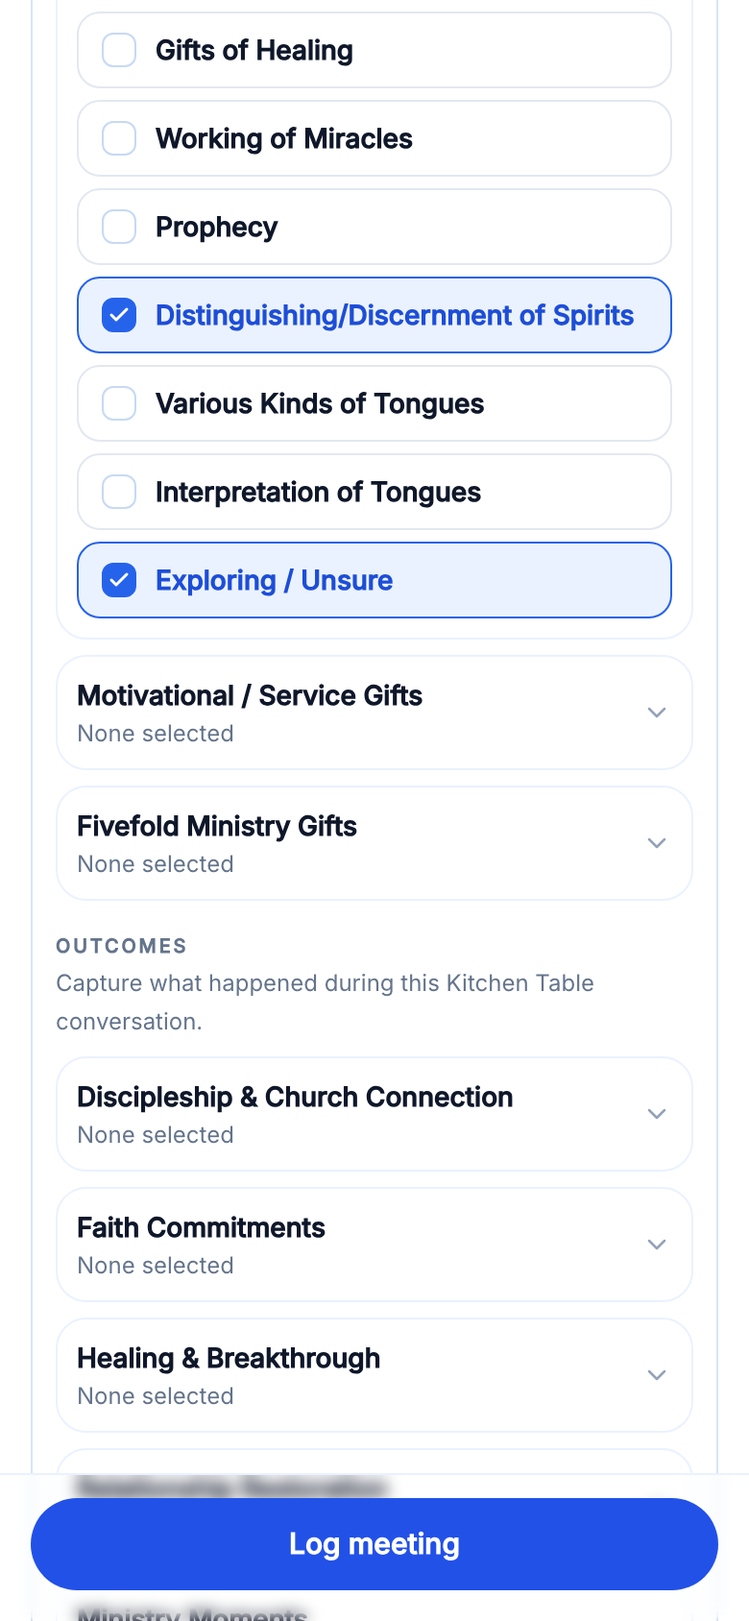
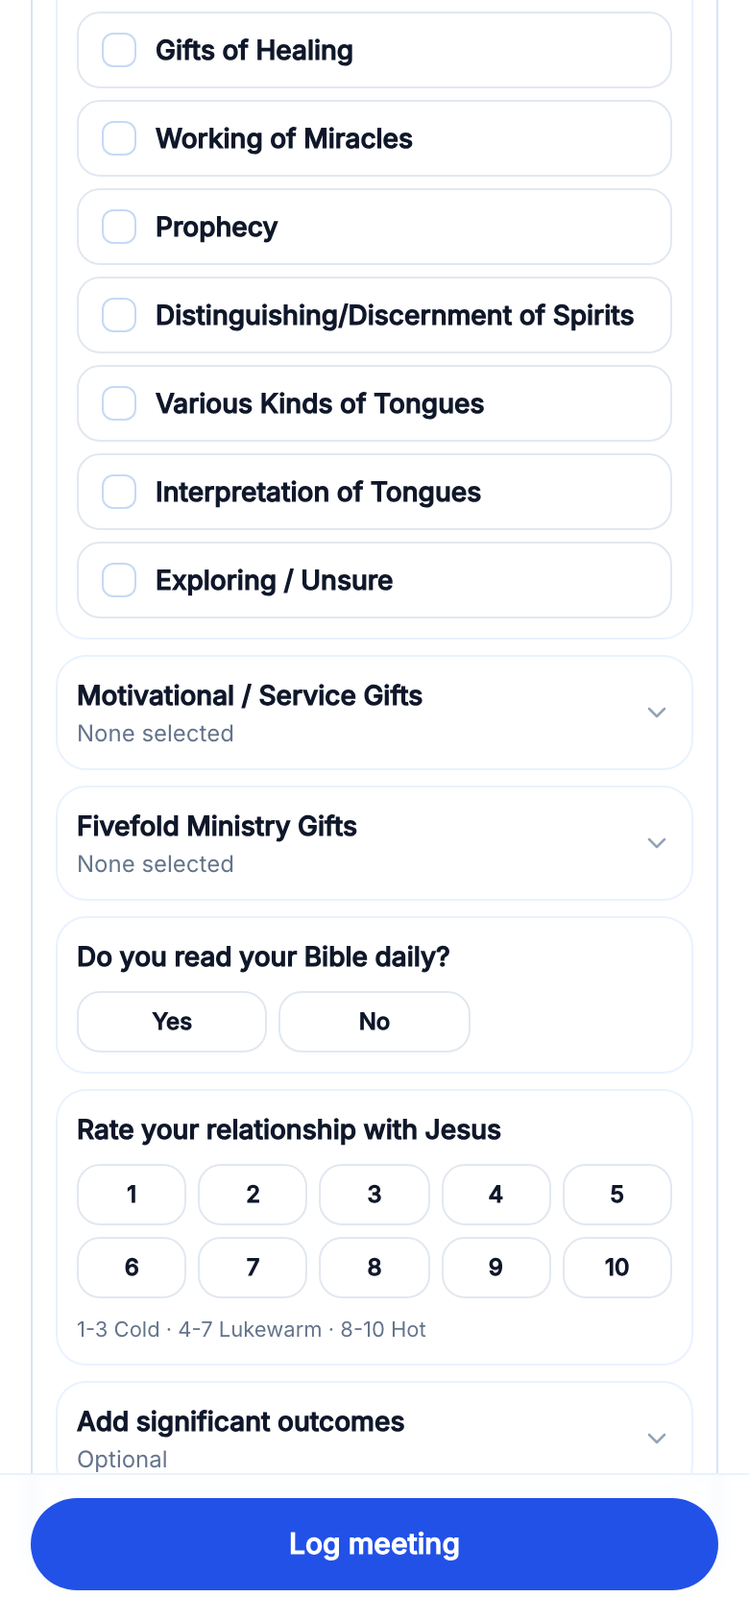
USA-238: second founder review — conversational question order, inline gift groups, one significant-outcomes row
- Kitchen Table questions now follow the conversation: believe, baptized,
  discipling, tithe, Sabbath, prayer/fasting, preach, church, spiritual gifts,
  (gift groups inline while Yes), Bible daily, relationship rating.
- The three collapsed gift groups are part of the question list directly
  under Spiritual Gifts and render only while it is Yes; hidden selections
  still clear when the answer changes.
- The five outcome groups are replaced for new capture by one optional
  collapsed row after the rating ("Add significant outcomes" / "Optional" or
  the count) opening a flat nine-item list. The old groups stay in the
  definition as historicalOnly: saved values still normalize through edits
  and render in meeting detail; the form and Library never offer them.
- Outcomes stay meeting responses; Observed Fruit is untouched and the
  regression proves no Fruit reference in the guide section or meetings API.
- Regressions: exact order, inline conditional gifts, consolidated picker,
  historical normalization/rendering, Fruit separation. Library resource
  baseline re-recorded (questions reordered; pickers no longer numbered).

diff --git a/src/lib/dos/meeting-engine.ts b/src/lib/dos/meeting-engine.ts
@@ -30,7 +30,14 @@ export type DosKitchenTableResponses = Partial<Record<Exclude<DosKitchenTableQue
 type DosKitchenTableNonRatingQuestionId = Exclude<DosKitchenTableQuestionId, "relationshipWithJesus">;
 
 export type DosConversationQuestion = {
+  /* Shown in meeting detail instead of `label` (e.g. for an "Add …" form title). */
+  detailLabel?: string;
+  /* Collapsed-row status when nothing is selected; defaults to "None selected". */
+  emptyLabel?: string;
   helper?: string;
+  /* Kept for saved records: still normalized and rendered in detail, never
+     offered in the form or the Library. */
+  historicalOnly?: boolean;
   id: string;
   kind: DosConversationQuestionKind;
   label: string;
@@ -55,6 +62,7 @@ export type DosConversationQuestion = {
 
 export type DosConversationSection = {
   description?: string;
+  historicalOnly?: boolean;
   id: string;
   questions: readonly DosConversationQuestion[];
   title: string;
@@ -94,17 +102,20 @@ export type DosRecommendedResource = {
   type: "flag" | "resource";
 };
 
+/* Conversational order of a Kitchen Table conversation (PCO reference,
+   founder review 2026-09-07). The gift groups are inserted directly after
+   "Do you have any spiritual gifts?" when the flow is assembled below. */
 export const dosKitchenTableQuestions = [
   { id: "believeJesus", kind: "yes_no", label: "Do you believe in Jesus?" },
   { id: "baptized", kind: "yes_no", label: "Have you been baptized?" },
-  { id: "bibleDaily", kind: "yes_no", label: "Do you read your Bible daily?" },
-  { id: "spiritualGifts", kind: "yes_no_unsure", label: "Do you have any spiritual gifts?" },
   { id: "disciplingAnyone", kind: "yes_no", label: "Are you discipling anyone?" },
-  { id: "attendChurchOften", kind: "yes_no", label: "Do you attend church often?" },
-  { id: "preachGoodNews", kind: "yes_no", label: "Do you preach the Good News?" },
   { id: "tithe", kind: "yes_no", label: "Do you tithe?" },
   { id: "honorSabbath", kind: "yes_no", label: "Do you honor the Sabbath?" },
   { id: "prayFastOften", kind: "yes_no_unsure", label: "Do you pray daily and fast often?" },
+  { id: "preachGoodNews", kind: "yes_no", label: "Do you preach the Good News?" },
+  { id: "attendChurchOften", kind: "yes_no", label: "Do you attend church often?" },
+  { id: "spiritualGifts", kind: "yes_no_unsure", label: "Do you have any spiritual gifts?" },
+  { id: "bibleDaily", kind: "yes_no", label: "Do you read your Bible daily?" },
   {
     id: "relationshipWithJesus",
     kind: "rating",
@@ -197,6 +208,63 @@ const ministryMomentOutcomeOptions = [
   { label: "Healing Prayer", value: "healing_prayer" },
 ] as const;
 
+/* Significant outcomes (founder review 2026-09-07): one flat optional list of
+   concrete results or next steps from this conversation. The five earlier
+   outcome groups above are historical-only — saved values keep normalizing
+   and rendering, the form no longer offers them, and granular activities
+   (communion, foot washing, prayer types) belong in Meeting Notes. Outcomes
+   are meeting responses only; they never touch the leader's separate
+   assessment records. */
+const significantOutcomeOptions = [
+  { label: "Decision for Christ", value: "decision_for_christ" },
+  { label: "Rededication", value: "rededication" },
+  { label: "Baptism next step", value: "baptism_next_step" },
+  { label: "Baptism in the Holy Spirit", value: "baptism_in_holy_spirit" },
+  { label: "Connected to a church or ministry", value: "connected_to_church_or_ministry" },
+  { label: "Discipleship next step", value: "discipleship_next_step" },
+  { label: "Healing or breakthrough", value: "healing_or_breakthrough" },
+  { label: "Relationship restored", value: "relationship_restored" },
+  { label: "Other significant outcome", value: "other_significant_outcome" },
+] as const;
+
+const kitchenTableSpiritualGiftsIndex = dosKitchenTableQuestions.findIndex((question) => question.id === "spiritualGifts");
+
+const kitchenTableGiftQuestions = [
+  {
+    id: "manifestationGifts",
+    kind: "multi_select",
+    label: "Manifestation Gifts",
+    options: manifestationGiftOptions,
+    scriptureRefs: ["1 Corinthians 12:7-11"],
+    visibleWhen: { equals: "yes", questionId: "spiritualGifts" },
+  },
+  {
+    id: "serviceGifts",
+    kind: "multi_select",
+    label: "Motivational / Service Gifts",
+    options: serviceGiftOptions,
+    scriptureRefs: ["Romans 12:6-8"],
+    visibleWhen: { equals: "yes", questionId: "spiritualGifts" },
+  },
+  {
+    id: "fivefoldGifts",
+    kind: "multi_select",
+    label: "Fivefold Ministry Gifts",
+    options: fivefoldGiftOptions,
+    scriptureRefs: ["Ephesians 4:11"],
+    visibleWhen: { equals: "yes", questionId: "spiritualGifts" },
+  },
+] as const satisfies readonly DosConversationQuestion[];
+
+const kitchenTableSignificantOutcomesQuestion = {
+  detailLabel: "Significant outcomes",
+  emptyLabel: "Optional",
+  id: "significantOutcomes",
+  kind: "multi_select",
+  label: "Add significant outcomes",
+  options: significantOutcomeOptions,
+} as const satisfies DosConversationQuestion;
+
 export const dosConversationFlowDefinitions = [
   {
     category: "Conversation Flow",
@@ -209,74 +277,29 @@ export const dosConversationFlowDefinitions = [
     sections: [
       {
         id: "commands-of-jesus",
-        questions: dosKitchenTableQuestions,
+        /* Conversational order: the three gift groups sit directly under
+           "Do you have any spiritual gifts?" and render only while it is Yes;
+           "Add significant outcomes" is one optional collapsed row after the
+           relationship rating. */
+        questions: [
+          ...dosKitchenTableQuestions.slice(0, kitchenTableSpiritualGiftsIndex + 1),
+          ...kitchenTableGiftQuestions,
+          ...dosKitchenTableQuestions.slice(kitchenTableSpiritualGiftsIndex + 1),
+          kitchenTableSignificantOutcomesQuestion,
+        ],
         title: "Kitchen Table Questions",
       },
       {
-        description: "Select any gifts they identified. These appear only when Spiritual Gifts is Yes.",
-        id: "spiritual-gifts",
-        questions: [
-          {
-            id: "manifestationGifts",
-            kind: "multi_select",
-            label: "Manifestation Gifts",
-            options: manifestationGiftOptions,
-            scriptureRefs: ["1 Corinthians 12:7-11"],
-            visibleWhen: { equals: "yes", questionId: "spiritualGifts" },
-          },
-          {
-            id: "serviceGifts",
-            kind: "multi_select",
-            label: "Motivational / Service Gifts",
-            options: serviceGiftOptions,
-            scriptureRefs: ["Romans 12:6-8"],
-            visibleWhen: { equals: "yes", questionId: "spiritualGifts" },
-          },
-          {
-            id: "fivefoldGifts",
-            kind: "multi_select",
-            label: "Fivefold Ministry Gifts",
-            options: fivefoldGiftOptions,
-            scriptureRefs: ["Ephesians 4:11"],
-            visibleWhen: { equals: "yes", questionId: "spiritualGifts" },
-          },
-        ],
-        title: "Spiritual Gifts",
-      },
-      {
-        description: "Capture what happened during this Kitchen Table conversation.",
+        /* Historical only (pre-review outcome groups). Kept so saved meetings
+           keep their values through edits and still render them in detail. */
+        historicalOnly: true,
         id: "outcomes",
         questions: [
-          {
-            id: "connectionOutcomes",
-            kind: "multi_select",
-            label: "Discipleship & Church Connection",
-            options: connectionOutcomeOptions,
-          },
-          {
-            id: "faithCommitmentOutcomes",
-            kind: "multi_select",
-            label: "Faith Commitments",
-            options: faithCommitmentOutcomeOptions,
-          },
-          {
-            id: "healingOutcomes",
-            kind: "multi_select",
-            label: "Healing & Breakthrough",
-            options: healingOutcomeOptions,
-          },
-          {
-            id: "relationshipOutcomes",
-            kind: "multi_select",
-            label: "Relationship Restoration",
-            options: relationshipOutcomeOptions,
-          },
-          {
-            id: "ministryMomentOutcomes",
-            kind: "multi_select",
-            label: "Ministry Moments",
-            options: ministryMomentOutcomeOptions,
-          },
+          { historicalOnly: true, id: "connectionOutcomes", kind: "multi_select", label: "Discipleship & Church Connection", options: connectionOutcomeOptions },
+          { historicalOnly: true, id: "faithCommitmentOutcomes", kind: "multi_select", label: "Faith Commitments", options: faithCommitmentOutcomeOptions },
+          { historicalOnly: true, id: "healingOutcomes", kind: "multi_select", label: "Healing & Breakthrough", options: healingOutcomeOptions },
+          { historicalOnly: true, id: "relationshipOutcomes", kind: "multi_select", label: "Relationship Restoration", options: relationshipOutcomeOptions },
+          { historicalOnly: true, id: "ministryMomentOutcomes", kind: "multi_select", label: "Ministry Moments", options: ministryMomentOutcomeOptions },
         ],
         title: "Outcomes",
       },

diff --git a/app/dos/app/DosMvpAppClient.tsx b/app/dos/app/DosMvpAppClient.tsx
@@ -20507,7 +20507,7 @@ function DiscussionGuideResponsesSection({
   const flow = guide;
   const rowTitle = guide.rowTitle ?? guide.title;
   const allQuestions = flow.sections.flatMap((section) => section.questions);
-  const coreQuestions = flow.sections[0]?.questions ?? [];
+  const coreQuestions = (flow.sections[0]?.questions ?? []).filter((question) => question.kind !== "multi_select");
   const answeredCoreQuestions = active
     ? coreQuestions.filter((question) => responses[question.id] !== undefined).length
     : 0;
@@ -20515,7 +20515,7 @@ function DiscussionGuideResponsesSection({
   // group never inflates the collapsed summary.
   const selectedExtras = active
     ? allQuestions
-      .filter((question) => question.kind === "multi_select" && conversationQuestionIsVisible(question, responses))
+      .filter((question) => question.kind === "multi_select" && !question.historicalOnly && conversationQuestionIsVisible(question, responses))
       .reduce<number>((count, question) => count + responseAsStringArray(responses[question.id]).length, 0)
     : 0;
   const responseSummary = answeredCoreQuestions || selectedExtras
@@ -20567,8 +20567,8 @@ function DiscussionGuideResponsesSection({
               This meeting was logged with {legacyFlowTitle}. Those responses stay on the record unless you add {rowTitle} here.
             </p>
           ) : null}
-          {flow.sections.map((section) => {
-            const visibleQuestions = section.questions.filter((question) => conversationQuestionIsVisible(question, responses));
+          {flow.sections.filter((section) => !section.historicalOnly).map((section) => {
+            const visibleQuestions = section.questions.filter((question) => !question.historicalOnly && conversationQuestionIsVisible(question, responses));
 
             return visibleQuestions.length ? (
               <div className="grid gap-2" key={section.id}>
@@ -20662,7 +20662,7 @@ function ConversationQuestionCard({
         <summary className="flex min-h-8 cursor-pointer list-none items-center justify-between gap-3 [&::-webkit-details-marker]:hidden">
           <span>
             <span className="block text-sm font-semibold text-[#0F172A]">{question.label}</span>
-            <span className="mt-0.5 block text-xs text-[#64748B]">{selectedValues.length ? `${selectedValues.length} selected` : "None selected"}</span>
+            <span className="mt-0.5 block text-xs text-[#64748B]">{selectedValues.length ? `${selectedValues.length} selected` : question.emptyLabel ?? "None selected"}</span>
           </span>
           <ChevronRight className="h-4 w-4 shrink-0 text-[#94A3B8] transition-transform group-open:rotate-90" aria-hidden="true" strokeWidth={1.9} />
         </summary>
@@ -32977,7 +32977,7 @@ function ConversationResponsesSection({ meeting }: { meeting: DosAppMeeting }) {
 
                 return (
                   <li className="grid gap-1" key={question.id}>
-                    <span className="text-[14px] font-semibold leading-[1.4] text-dos-primary">{question.label}</span>
+                    <span className="text-[14px] font-semibold leading-[1.4] text-dos-primary">{question.detailLabel ?? question.label}</span>
                     <span className="flex flex-wrap gap-1.5">
                       {selectedLabels.map((label) => (
                         <span className="inline-flex rounded-full border border-[#BFDBFE] bg-[#EBF2FF] px-2.5 py-1 text-[12.5px] font-semibold text-[#1D4ED8]" key={label}>
@@ -32992,7 +32992,7 @@ function ConversationResponsesSection({ meeting }: { meeting: DosAppMeeting }) {
               if (question.kind === "text" || question.kind === "notes") {
                 return (
                   <li className="grid gap-0.5" key={question.id}>
-                    <span className="text-[14px] font-semibold leading-[1.4] text-dos-primary">{question.label}</span>
+                    <span className="text-[14px] font-semibold leading-[1.4] text-dos-primary">{question.detailLabel ?? question.label}</span>
                     <span className="whitespace-pre-line text-[14.5px] leading-[1.5] text-dos-body">{responseAsString(value)}</span>
                   </li>
                 );
@@ -33000,7 +33000,7 @@ function ConversationResponsesSection({ meeting }: { meeting: DosAppMeeting }) {
 
               return (
                 <li className="flex items-start justify-between gap-3" key={question.id}>
-                  <span className="min-w-0 text-[14.5px] leading-[1.5] text-dos-body">{question.label}</span>
+                  <span className="min-w-0 text-[14.5px] leading-[1.5] text-dos-body">{question.detailLabel ?? question.label}</span>
                   <span className="shrink-0 text-right text-[14.5px] font-semibold leading-[1.5] text-dos-primary">
                     {questionResponseLabel(question, value)}
                   </span>
@@ -34387,7 +34387,7 @@ function TeachingResourceContent({ resource }: { resource: DosResource }) {
 
     return (
       <div className="grid gap-3">
-        {flow.sections.map((section) => {
+        {flow.sections.filter((section) => !("historicalOnly" in section && section.historicalOnly)).map((section) => {
           const sectionDescription = "description" in section ? section.description : null;
 
           return (
@@ -34395,7 +34395,7 @@ function TeachingResourceContent({ resource }: { resource: DosResource }) {
               <h2 className="text-[17px] font-semibold leading-snug text-dos-primary">{section.title}</h2>
               {sectionDescription ? <p className="mt-1 text-dos-body text-dos-secondary">{sectionDescription}</p> : null}
               <div className="mt-4 grid gap-3">
-                {section.questions.map((question, index) => {
+                {section.questions.filter((question) => question.kind !== "multi_select").map((question, index) => {
                   const prompt = "prompt" in question ? question.prompt : null;
                   const scriptureRefs = "scriptureRefs" in question ? question.scriptureRefs : null;
 

diff --git a/app/dos/app/preview/page.tsx b/app/dos/app/preview/page.tsx
@@ -412,14 +412,13 @@ function buildDosPreviewDemoData(): DosAppData {
         believeJesus: "yes",
         bibleDaily: "yes",
         disciplingAnyone: "yes",
-        faithCommitmentOutcomes: ["desire_to_join_discipleship_group"],
         honorSabbath: "no",
         manifestationGifts: ["word_of_knowledge", "faith"],
-        ministryMomentOutcomes: ["prayer_ministry_took_place"],
         prayFastOften: "yes",
         preachGoodNews: "yes",
         relationshipWithJesus: 8,
         serviceGifts: ["encouragement"],
+        significantOutcomes: ["discipleship_next_step", "connected_to_church_or_ministry"],
         spiritualGifts: "yes",
         tithe: "yes",
       },

diff --git a/docs/dos-ui-refresh/phase-6/usa-238-kitchen-table-responses.md b/docs/dos-ui-refresh/phase-6/usa-238-kitchen-table-responses.md
@@ -44,6 +44,15 @@ The meetings API previously passed `/missionaries/<slug>` into a profile-path he
 - **Compactness.** Default form unchanged apart from the single row; questions, gift groups and the five outcome groups render only after opening; each group is a collapsed `<details>` with "n selected".
 - **Regression coverage added** (`scripts/dos-log-meeting-form-regression.mjs`): exact taxonomy per group; relabelled key stability; every supported gift saves, reopens, edits and is pruned when Spiritual Gifts leaves Yes; detail render maps values to labels; search clearing and duplicate guard; Fruit separation; row copy and absence of a guide picker.
 
+## Second founder review (hosted mobile review, 2026-09-07)
+- **Question order** now follows the Kitchen Table conversation: Do you believe in Jesus? · Have you been baptized? · Are you discipling anyone? · Do you tithe? · Do you honor the Sabbath? · Do you pray daily and fast often? · Do you preach the Good News? · Do you attend church often? · Do you have any spiritual gifts? · (gift groups, conditional) · Do you read your Bible daily? · Rate your relationship with Jesus. Wording unchanged; only the sequence moved.
+- **Gifts inline.** The three collapsed gift groups are part of the question list directly under Spiritual Gifts and render only while the answer is Yes ("None selected" / count). Changing the answer still clears hidden selections.
+- **Significant outcomes.** The five outcome groups are replaced for new capture by one optional collapsed row after the rating — "Add significant outcomes" / "Optional" or the selected count — opening a flat list: Decision for Christ (`decision_for_christ`), Rededication (`rededication`), Baptism next step (`baptism_next_step`), Baptism in the Holy Spirit (`baptism_in_holy_spirit`), Connected to a church or ministry (`connected_to_church_or_ministry`), Discipleship next step (`discipleship_next_step`), Healing or breakthrough (`healing_or_breakthrough`), Relationship restored (`relationship_restored`), Other significant outcome (`other_significant_outcome`). Granular activities (communion, foot washing, prayer types) go in Meeting Notes.
+- **Historical outcome groups** stay in the definition as `historicalOnly`: saved values (`connectionOutcomes`, `faithCommitmentOutcomes`, `healingOutcomes`, `relationshipOutcomes`, `ministryMomentOutcomes`) keep normalizing through edits and still render with their labels in meeting detail; the form and the Library never offer them. Nothing is migrated or discarded (production held no saved responses on 2026-09-07).
+- **Outcomes vs Fruit** unchanged: outcomes are a concrete result or next step stored with the meeting; Observed Fruit stays on the normal Log Meeting form and in detail; the regression proves neither the guide section nor the meetings API references Fruit and the payload carries only the outcome key.
+- **Library resource** lists the questions in the new order and no longer numbers gift or outcome pickers as questions.
+- **Regression added**: exact question order; inline conditional gift placement; consolidated picker (labels, "Optional", detail label, no granular activities); historical normalization and detail rendering; Fruit separation.
+
 ## Evidence
 | Screenshot | What it shows |
 | --- | --- |
@@ -57,12 +66,16 @@ The meetings API previously passed `/missionaries/<slug>` into a profile-path he
 | `review-390--01-log-meeting-row-collapsed.png` | Founder-review build: the row reads "Kitchen Table Gospel Responses" / "Questions, spiritual gifts, and ministry outcomes" / "Not added"; the form stays compact. |
 | `review-390--02-duration-2hrs30min.png` | The 56px Stepper with three equal regions, value and buttons centered ("2 hrs 30 min"). |
 | `review-390--03-ministry-search-cleared.png` | After picking two ministry team results the chips stay and the search field is empty and focused. |
-| `review-390--04-row-open.png` | Opening the row reveals the questions; no explanatory paragraph. |
+| `review-390--04a-question-order-1.png` | Row opened: questions begin in conversational order (believe, baptized, discipling…). |
+| `review-390--04b-question-order-2-gifts-before-yes.png` | …tithe, Sabbath, prayer/fasting, preach, church, spiritual gifts (unanswered: no gift controls), Bible daily, rating. |
+| `review-390--04c-question-order-3-gifts-after-yes.png` | Spiritual Gifts = Yes reveals the three collapsed gift groups inline, directly under the question, before "Do you read your Bible daily?". |
 | `review-390--05-manifestation-taxonomy.png` | Manifestation Gifts tail: "Distinguishing/Discernment of Spirits" and "Exploring / Unsure". |
-| `review-390--06-service-and-fivefold.png` | Motivational / Service and Fivefold lists. |
-| `review-390--07-outcomes-collapsed.png` | Five outcome groups collapsed with counts; "Remove Kitchen Table Gospel Responses". |
+| `review-390--06-outcomes-row-collapsed.png` | After the rating: the single collapsed "Add significant outcomes" / "Optional" row, then the remove control. No five-group outcomes. |
+| `review-390--07-outcomes-list-open.png` | The opened flat nine-item outcomes list. |
+| `review-390--07b-outcomes-row-2-selected.png` | Collapsed again with "2 selected". |
 | `review-390--08-gifts-hidden-after-no.png` | Spiritual Gifts = No hides the groups; status reads "1 of 11 answered". |
 | `review-390--09-meeting-detail-heading.png` | Meeting detail heading "Kitchen Table Gospel Responses" below the separate "Fruit observed". |
+| `review-390--09b-meeting-detail-gifts-and-outcomes.png` | Detail continues with gift chips and "Significant outcomes" chips. |
 
 ## Verification
 `npm run typecheck`, `npm run test:dos-log-meeting-form`, `npm run test:dos`, `next build --webpack`, `git diff --check`.

diff --git a/docs/dos-ui-refresh/phase-3/dos-ui-canonical-spec.md b/docs/dos-ui-refresh/phase-3/dos-ui-canonical-spec.md
@@ -152,7 +152,7 @@ Each pattern names the route/component it changes and the behavior it must prese
 
 ### 5.3 Log Meeting / Edit Meeting (USA-216) · `MeetingFormContent`, `DosWorkflowPage "Log Meeting"`
 - TaskScreen: back, grey Cancel, "Log meeting", lede "Capture what mattered while it's fresh."
-- Date: compact DateInput ("Today, Sep 4"). Who was there: Chips from the person picker, household spouse present but unselected, "+ Add". Duration: Stepper, 15-min steps, default = production's 30m *(unresolved: default)*. How did you connect: Select, default = production "In person" *(V10 shows Coffee; keep production)*. Prayer: ToggleRow "We prayed together" + ToggleRow "Add something to pray for" revealing a Field (errors if ticked and empty). Fruit observed (optional Select) *(unresolved: on form vs afterward — keep where production has it)*. What happened: VoiceTextarea. For USAM workspaces only (decided from actual application / profile / owning-organization state in `src/lib/dos/usam-workspace.ts` and enforced by the meetings API with a 403, not by client visibility alone — USA-238), one collapsed optional **Kitchen Table Gospel Responses** row (title, the description "Questions, spiritual gifts, and ministry outcomes", and a status line reading "Not added" or a concise summary) opens the Kitchen Table questions, relationship rating, conditional spiritual-gift groups, and collapsed outcome groups. It never exposes a flow chooser, a discussion-guide picker, or Four Questions. Outcomes record what happened in that conversation and live with the meeting; Observed Fruit remains the leader's separate assessment, and outcomes never create, update or duplicate a Fruit record. Meeting context, next steps, and review link options retain their existing behavior (B8).
+- Date: compact DateInput ("Today, Sep 4"). Who was there: Chips from the person picker, household spouse present but unselected, "+ Add". Duration: Stepper, 15-min steps, default = production's 30m *(unresolved: default)*. How did you connect: Select, default = production "In person" *(V10 shows Coffee; keep production)*. Prayer: ToggleRow "We prayed together" + ToggleRow "Add something to pray for" revealing a Field (errors if ticked and empty). Fruit observed (optional Select) *(unresolved: on form vs afterward — keep where production has it)*. What happened: VoiceTextarea. For USAM workspaces only (decided from actual application / profile / owning-organization state in `src/lib/dos/usam-workspace.ts` and enforced by the meetings API with a 403, not by client visibility alone — USA-238), one collapsed optional **Kitchen Table Gospel Responses** row (title, the description "Questions, spiritual gifts, and ministry outcomes", and a status line reading "Not added" or a concise summary) opens the Kitchen Table questions in conversational order (the three collapsed gift groups sit directly under "Do you have any spiritual gifts?" and render only while it is Yes), the relationship rating, and one optional collapsed "Add significant outcomes" row with a flat nine-item list. It never exposes a flow chooser, a discussion-guide picker, or Four Questions. Outcomes record what happened in that conversation and live with the meeting; Observed Fruit remains the leader's separate assessment, and outcomes never create, update or duplicate a Fruit record. Meeting context, next steps, and review link options retain their existing behavior (B8).
 - StickyPrimary "Log meeting" / "Save changes"; validation grammar per §3; future date → red instruction *(unresolved: block vs redirect to Schedule — production behavior kept)*; duration past 4h → confirm *(unresolved threshold — keep production behavior)*.
 - Edit reuses the same screen with the meeting's values; id, review status, reminders preserved.
 
